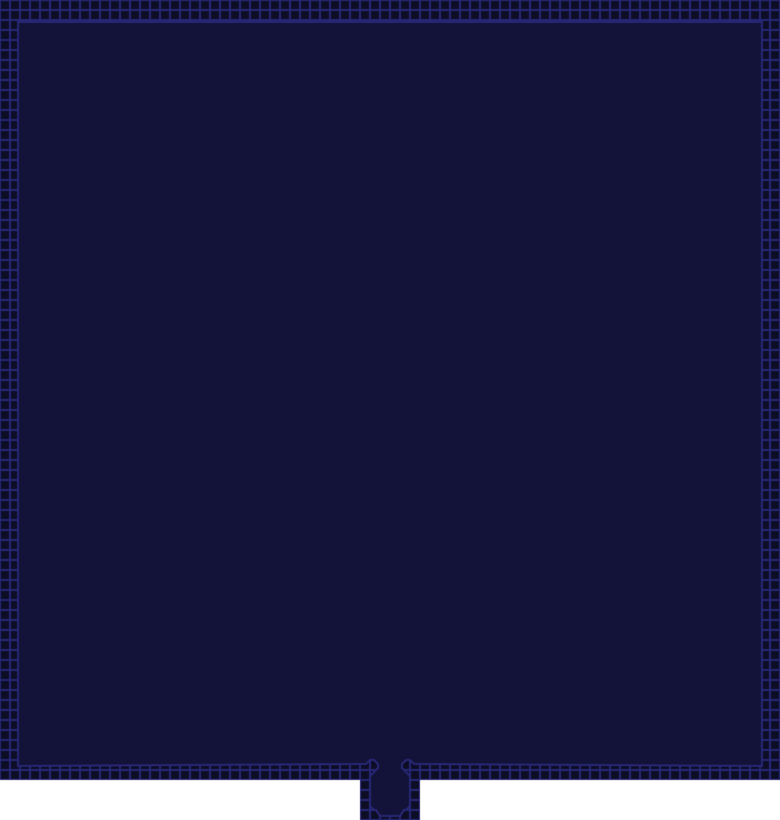
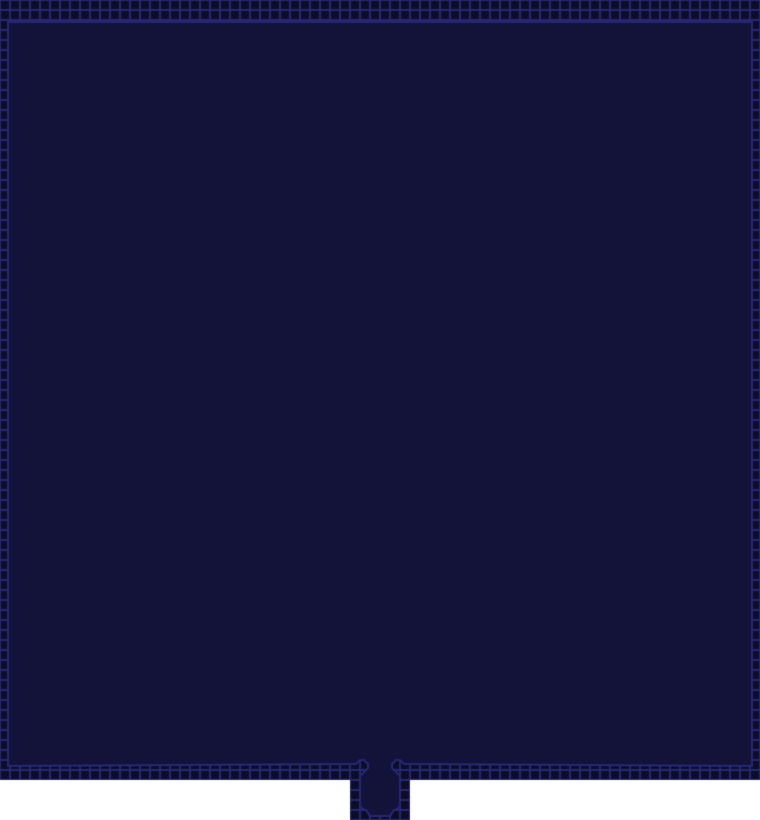
Making Obstacle Course Architect a little thinner

diff --git a/index.html b/index.html
@@ -793,7 +793,7 @@
         <div class="helpContainer">
             <p style="text-align: center;">
                 <span class="title">DojoCAD</span><br/>
-                v1.4.0: 2020-02-13<br/>
+                v1.4.1: 2020-03-20<br/>
                 <a href="https://github.com/buff0000n/dojoarch">Source</a>&nbsp;
                 <a href="https://github.com/buff0000n/dojoarch/issues/2">Feedback</a>&nbsp;
                 <a href="https://github.com/buff0000n/dojocad/issues/new">Bugs</a><br/>
@@ -1315,6 +1315,7 @@
             <h3 id="UpdateNotes1.4">v1.4: 2020-02-13</h3>
             <ul>
                 <li>Implemented undo/redo.</li>
+                <li>Updated the boundary on the Obstacle Course Architect room (thanks <strong>yodaxep</strong></li>
             </ul>
 
             <h1 id="ToDo">To Do</h1>

diff --git a/js/room-metadata.js b/js/room-metadata.js
@@ -353,7 +353,7 @@ var roomMetadata =
 		"dd"]},
 {"id": "oa", "image": "obstacle-course-architect", "name": "Obstacle Course Architect", "category": "Interactive", "prereq": null, "capacity": 0, "energy": -2, "maxnum": 5, "floor": 0, "ceil": 48,
 	"bounds": [
-		{"x1": -78, "y1": -82, "x2": 78, "y2": 74, "floor": 0, "ceil": 48},
+		{"x1": -76, "y1": -82, "x2": 76, "y2": 74, "floor": 0, "ceil": 48},
 		{"x1": -6, "y1": 74, "x2": 6, "y2": 82, "floor": 0, "ceil": 48}],
 	"doors": [
 		{"x": 0, "y": 82, "floor": 0, "outx": 0, "outy": 1}],
